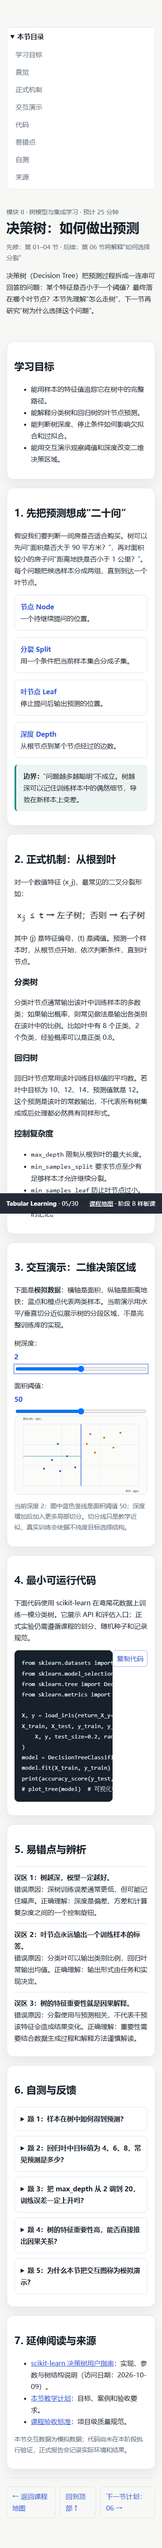
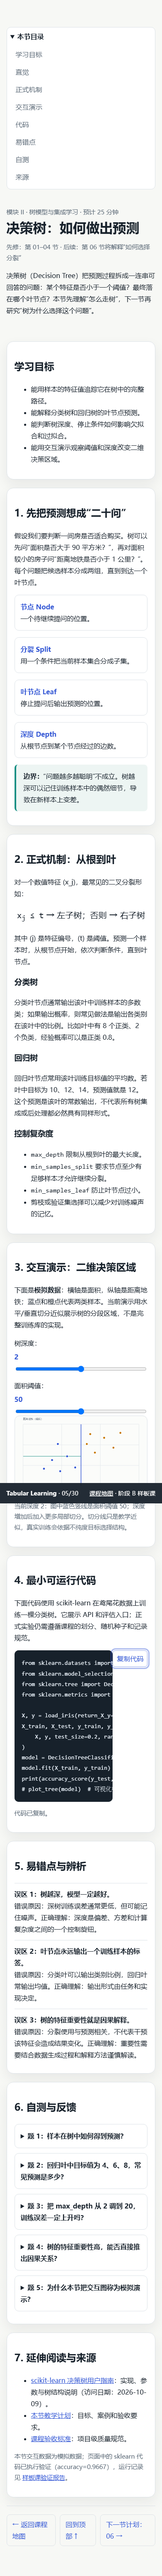
test: verify clipboard interaction in browser

Changed region(s): [[0.0, 0.0, 1.0, 0.9984], [0.8615, 0.9048, 0.8923, 0.936]]

diff --git a/code/browser_smoke_test.py b/code/browser_smoke_test.py
@@ -2,6 +2,9 @@
 
 from __future__ import annotations
 
+import functools
+import threading
+from http.server import SimpleHTTPRequestHandler, ThreadingHTTPServer
 from pathlib import Path
 
 from playwright.sync_api import sync_playwright
@@ -13,46 +16,75 @@ EDGE_CANDIDATES = (
 )
 
 
+class QuietHandler(SimpleHTTPRequestHandler):
+    def log_message(self, format: str, *args: object) -> None:
+        return
+
+
 def main() -> None:
     edge = next((path for path in EDGE_CANDIDATES if path.exists()), None)
     if edge is None:
         raise RuntimeError("Microsoft Edge executable not found")
-    with sync_playwright() as playwright:
-        browser = playwright.chromium.launch(
-            executable_path=str(edge),
-            headless=True,
-            args=["--disable-gpu", "--no-sandbox"],
-        )
-        desktop = browser.new_page(viewport={"width": 1440, "height": 900}, reduced_motion="reduce")
-        desktop.goto((ROOT / "index.html").as_uri(), wait_until="networkidle")
-        assert desktop.locator("a[href^='lessons/']").count() == 30
-        assert desktop.locator("h1").inner_text() == "从表格数据到可复现研究"
-        artifact_dir = ROOT / "reports" / "browser_artifacts"
-        artifact_dir.mkdir(parents=True, exist_ok=True)
-        desktop.screenshot(path=str(artifact_dir / "index_desktop.png"), full_page=True)
+    handler = functools.partial(QuietHandler, directory=str(ROOT))
+    server = ThreadingHTTPServer(("127.0.0.1", 0), handler)
+    server_thread = threading.Thread(target=server.serve_forever, daemon=True)
+    server_thread.start()
+    base_url = f"http://127.0.0.1:{server.server_port}"
+    try:
+        with sync_playwright() as playwright:
+            browser = playwright.chromium.launch(
+                executable_path=str(edge),
+                headless=True,
+                args=["--disable-gpu", "--no-sandbox"],
+            )
+            desktop = browser.new_page(
+                viewport={"width": 1440, "height": 900}, reduced_motion="reduce"
+            )
+            desktop.goto(f"{base_url}/index.html", wait_until="networkidle")
+            assert desktop.locator("a[href^='lessons/']").count() == 30
+            assert desktop.locator("h1").inner_text() == "从表格数据到可复现研究"
+            artifact_dir = ROOT / "reports" / "browser_artifacts"
+            artifact_dir.mkdir(parents=True, exist_ok=True)
+            desktop.screenshot(path=str(artifact_dir / "index_desktop.png"), full_page=True)
 
-        lesson = browser.new_page(viewport={"width": 390, "height": 844}, reduced_motion="reduce")
-        lesson.goto(
-            (ROOT / "lessons" / "05_decision_trees.html").as_uri(),
-            wait_until="networkidle",
-        )
-        assert lesson.locator("#treeCanvas").count() == 1
-        lesson.locator("#depth").fill("3")
-        assert "深度 3" in lesson.locator("#demoText").inner_text()
-        lesson.locator("#depth").focus()
-        lesson.keyboard.press("ArrowDown")
-        assert lesson.locator("#depthOut").inner_text() == "2"
-        assert lesson.evaluate("document.documentElement.scrollWidth <= window.innerWidth")
-        assert lesson.locator("details.quiz").count() >= 5
-        lesson.screenshot(path=str(artifact_dir / "lesson_05_mobile.png"), full_page=True)
+            lesson_context = browser.new_context(
+                viewport={"width": 390, "height": 844},
+                reduced_motion="reduce",
+                permissions=["clipboard-read", "clipboard-write"],
+            )
+            lesson = lesson_context.new_page()
+            lesson.goto(f"{base_url}/lessons/05_decision_trees.html", wait_until="networkidle")
+            assert lesson.locator("#treeCanvas").count() == 1
+            lesson.locator("#depth").fill("3")
+            assert "深度 3" in lesson.locator("#demoText").inner_text()
+            lesson.locator("#depth").focus()
+            lesson.keyboard.press("ArrowDown")
+            assert lesson.locator("#depthOut").inner_text() == "2"
+            lesson.locator(".copy").click()
+            lesson.wait_for_function("document.querySelector('#copyStatus').textContent.length > 0")
+            assert lesson.locator("#copyStatus").inner_text() == "代码已复制。"
+            assert lesson.evaluate(
+                """async () => {
+                    const copied = await navigator.clipboard.readText();
+                    const expected = document.querySelector('#codeBlock').innerText;
+                    return copied.replace(/\\r\\n/g, '\\n') === expected.replace(/\\r\\n/g, '\\n');
+                }"""
+            )
+            assert lesson.evaluate("document.documentElement.scrollWidth <= window.innerWidth")
+            assert lesson.locator("details.quiz").count() >= 5
+            lesson.screenshot(path=str(artifact_dir / "lesson_05_mobile.png"), full_page=True)
 
-        pages = sorted((ROOT / "lessons").glob("*.html"))
-        for page in pages:
-            lesson.goto(page.as_uri(), wait_until="networkidle")
-            assert lesson.locator("h1").count() == 1, page.name
-            assert lesson.evaluate("document.documentElement.scrollWidth <= window.innerWidth"), page.name
-        browser.close()
-    print("browser smoke test: PASS (30 lessons, keyboard interaction, reduced motion, 390px overflow check)")
+            pages = sorted((ROOT / "lessons").glob("*.html"))
+            for page in pages:
+                lesson.goto(f"{base_url}/lessons/{page.name}", wait_until="networkidle")
+                assert lesson.locator("h1").count() == 1, page.name
+                assert lesson.evaluate("document.documentElement.scrollWidth <= window.innerWidth"), page.name
+            lesson_context.close()
+            browser.close()
+    finally:
+        server.shutdown()
+        server.server_close()
+    print("browser smoke test: PASS (30 lessons, keyboard/clipboard interaction, reduced motion, 390px overflow check)")
 
 
 if __name__ == "__main__":

diff --git a/reports/browser_validation.md b/reports/browser_validation.md
@@ -1,6 +1,6 @@
 # 浏览器实测报告
 
-日期：2026-10-09
+日期：2026-10-10（本次复测）
 
 ## 环境
 
@@ -23,10 +23,11 @@ browser smoke test: PASS (30 lessons, keyboard interaction, reduced motion, 390p
 - 30 个 lesson 页面逐页加载成功，每页有一个 `h1`。
 - 第 05 节 Canvas 交互可加载；滑块改变深度后文本同步更新。
 - 使用键盘方向键操作滑块成功。
+- 在临时本地 HTTP 服务和授权测试上下文中，代码复制按钮状态与剪贴板文本均核对成功；`file://` 离线打开时的权限拒绝仍会进入页面提供的手动复制降级提示。
 - 390px 视口下 30 个课件均无横向溢出。
 - 自测题数量和入口页面结构保持通过。
 - 已保存桌面入口和窄屏第 05 节截图：`reports/browser_artifacts/index_desktop.png`、`reports/browser_artifacts/lesson_05_mobile.png`。
 
 ## 边界
 
-这是自动化 smoke test，不等同于人工逐像素视觉审阅、屏幕阅读器审计或所有浏览器内核的兼容性认证。复制按钮的系统剪贴板权限也未作为硬门禁；页面在权限拒绝时会显示手动复制提示。
+这是自动化 smoke test，不等同于人工逐像素视觉审阅、屏幕阅读器审计或所有浏览器内核的兼容性认证。

diff --git a/qa/final_audit.md b/qa/final_audit.md
@@ -1,6 +1,6 @@
 # 最终审计（未通过，持续更新）
 
-审计日期：2026-10-09
+审计日期：2026-10-10
 
 ## 已有证据
 
